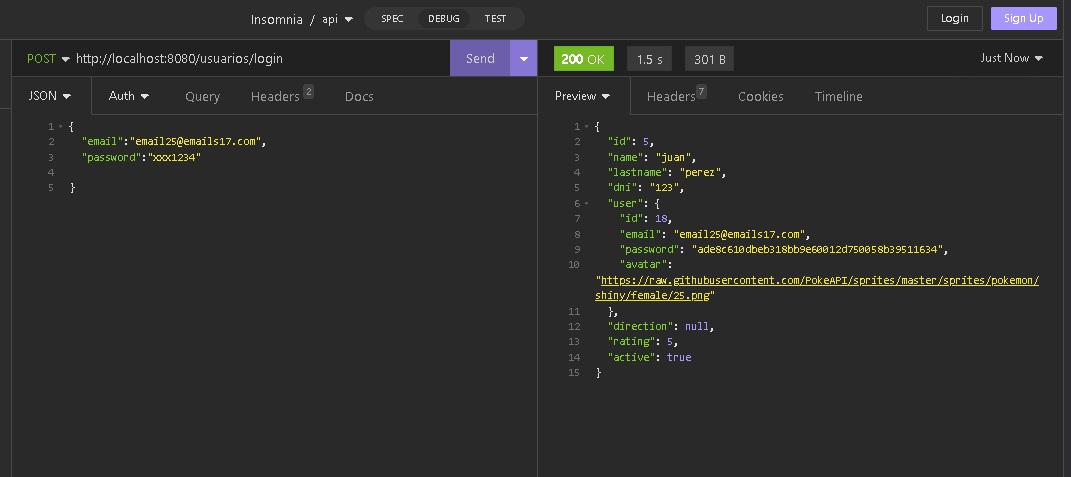
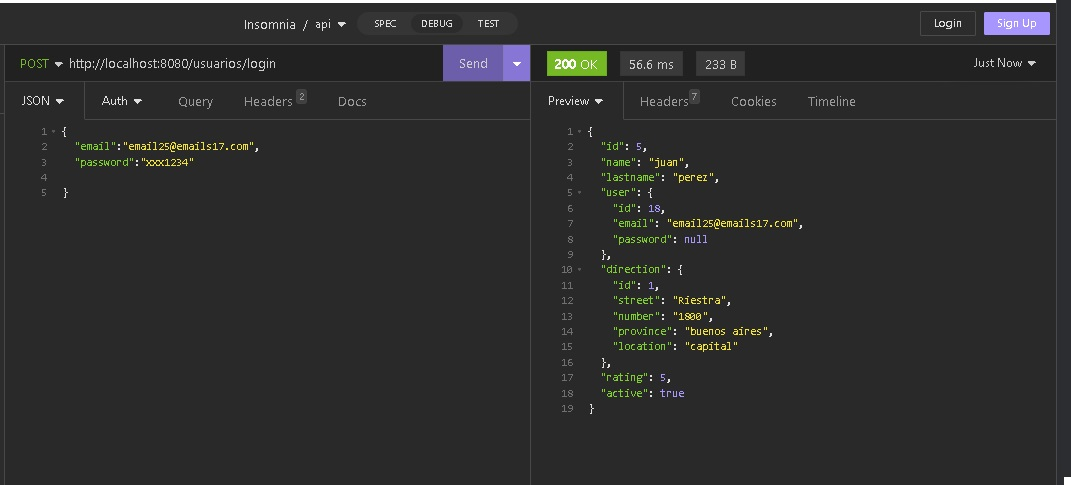
creando clinetUserDTO para devolver la entidad al logearse

diff --git a/BackEnd/homeservice/src/main/java/cohorte16/homeservice/controllers/UserController.java b/BackEnd/homeservice/src/main/java/cohorte16/homeservice/controllers/UserController.java
@@ -2,6 +2,7 @@ package cohorte16.homeservice.controllers;
 
 import cohorte16.homeservice.dtos.LoginDTO;
 import cohorte16.homeservice.dtos.RegistroUsuarioDTO;
+import cohorte16.homeservice.dtos.clientUserDTO;
 import cohorte16.homeservice.models.Client;
 import cohorte16.homeservice.models.User;
 import cohorte16.homeservice.repositories.ClientRepository;
@@ -65,10 +66,9 @@ public class UserController {
         } catch (Exception e) {
             return ResponseEntity.status(HttpStatus.UNAUTHORIZED).body("Credenciales incorrectas");
         }
+
         if(client != null) {
-            return new ResponseEntity<>(client, jwtToken, HttpStatus.OK);
-            
-             
+            return new ResponseEntity<>(new clientUserDTO(client), jwtToken, HttpStatus.OK);
         }
 
         return ResponseEntity.created(create("/usuarios/login/"+new RegistroUsuarioDTO(userCreated).id())).headers(jwtToken)

diff --git a/BackEnd/homeservice/src/main/java/cohorte16/homeservice/dtos/clientUserDTO.java b/BackEnd/homeservice/src/main/java/cohorte16/homeservice/dtos/clientUserDTO.java
@@ -1,0 +1,22 @@
+package cohorte16.homeservice.dtos;
+
+import cohorte16.homeservice.models.Client;
+import cohorte16.homeservice.models.Direction;
+import cohorte16.homeservice.models.User;
+import jakarta.persistence.CascadeType;
+import jakarta.persistence.Column;
+import jakarta.persistence.JoinColumn;
+import jakarta.persistence.OneToOne;
+import jakarta.validation.constraints.NotBlank;
+
+public record clientUserDTO(Long id, String name, String lastname,
+
+                            LoginDTO user, Direction direction, Integer rating,
+
+                            Boolean active) {
+    public clientUserDTO(Client client) {
+        this(client.getId(),client.getName(),client.getLastname(),new LoginDTO(client.getUser()),client.getDirection(),client.getRating(),client.getActive());
+    }
+
+
+}

diff --git a/BackEnd/homeservice/src/main/java/cohorte16/homeservice/dtos/LoginDTO.java b/BackEnd/homeservice/src/main/java/cohorte16/homeservice/dtos/LoginDTO.java
@@ -1,6 +1,13 @@
 package cohorte16.homeservice.dtos;
 
+import cohorte16.homeservice.models.User;
 import jakarta.validation.constraints.NotBlank;
 
-public record LoginDTO(@NotBlank String email, @NotBlank String password) {
+public record LoginDTO(Long id,@NotBlank String email, @NotBlank String password) {
+
+    public LoginDTO(User user) {
+        this(user.getId(),user.getEmail(),null);
+    }
+
+
 }
